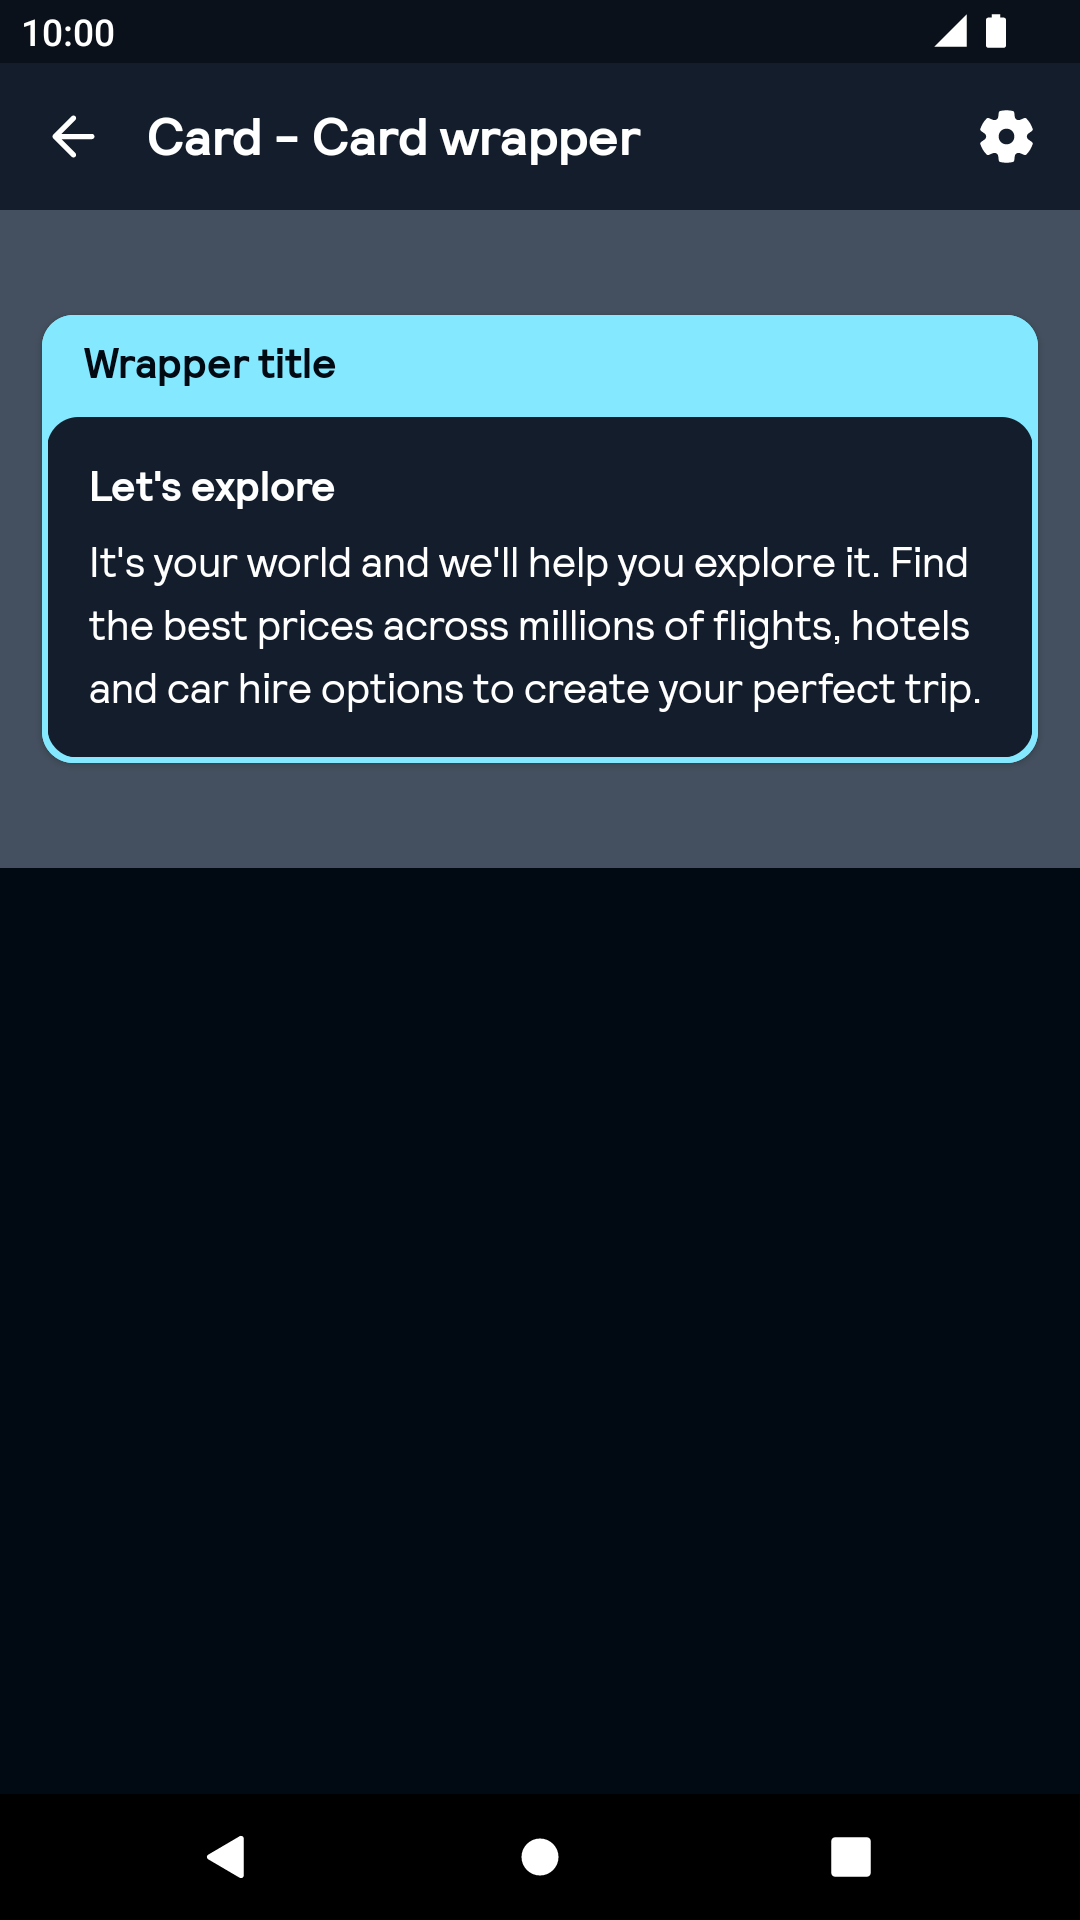
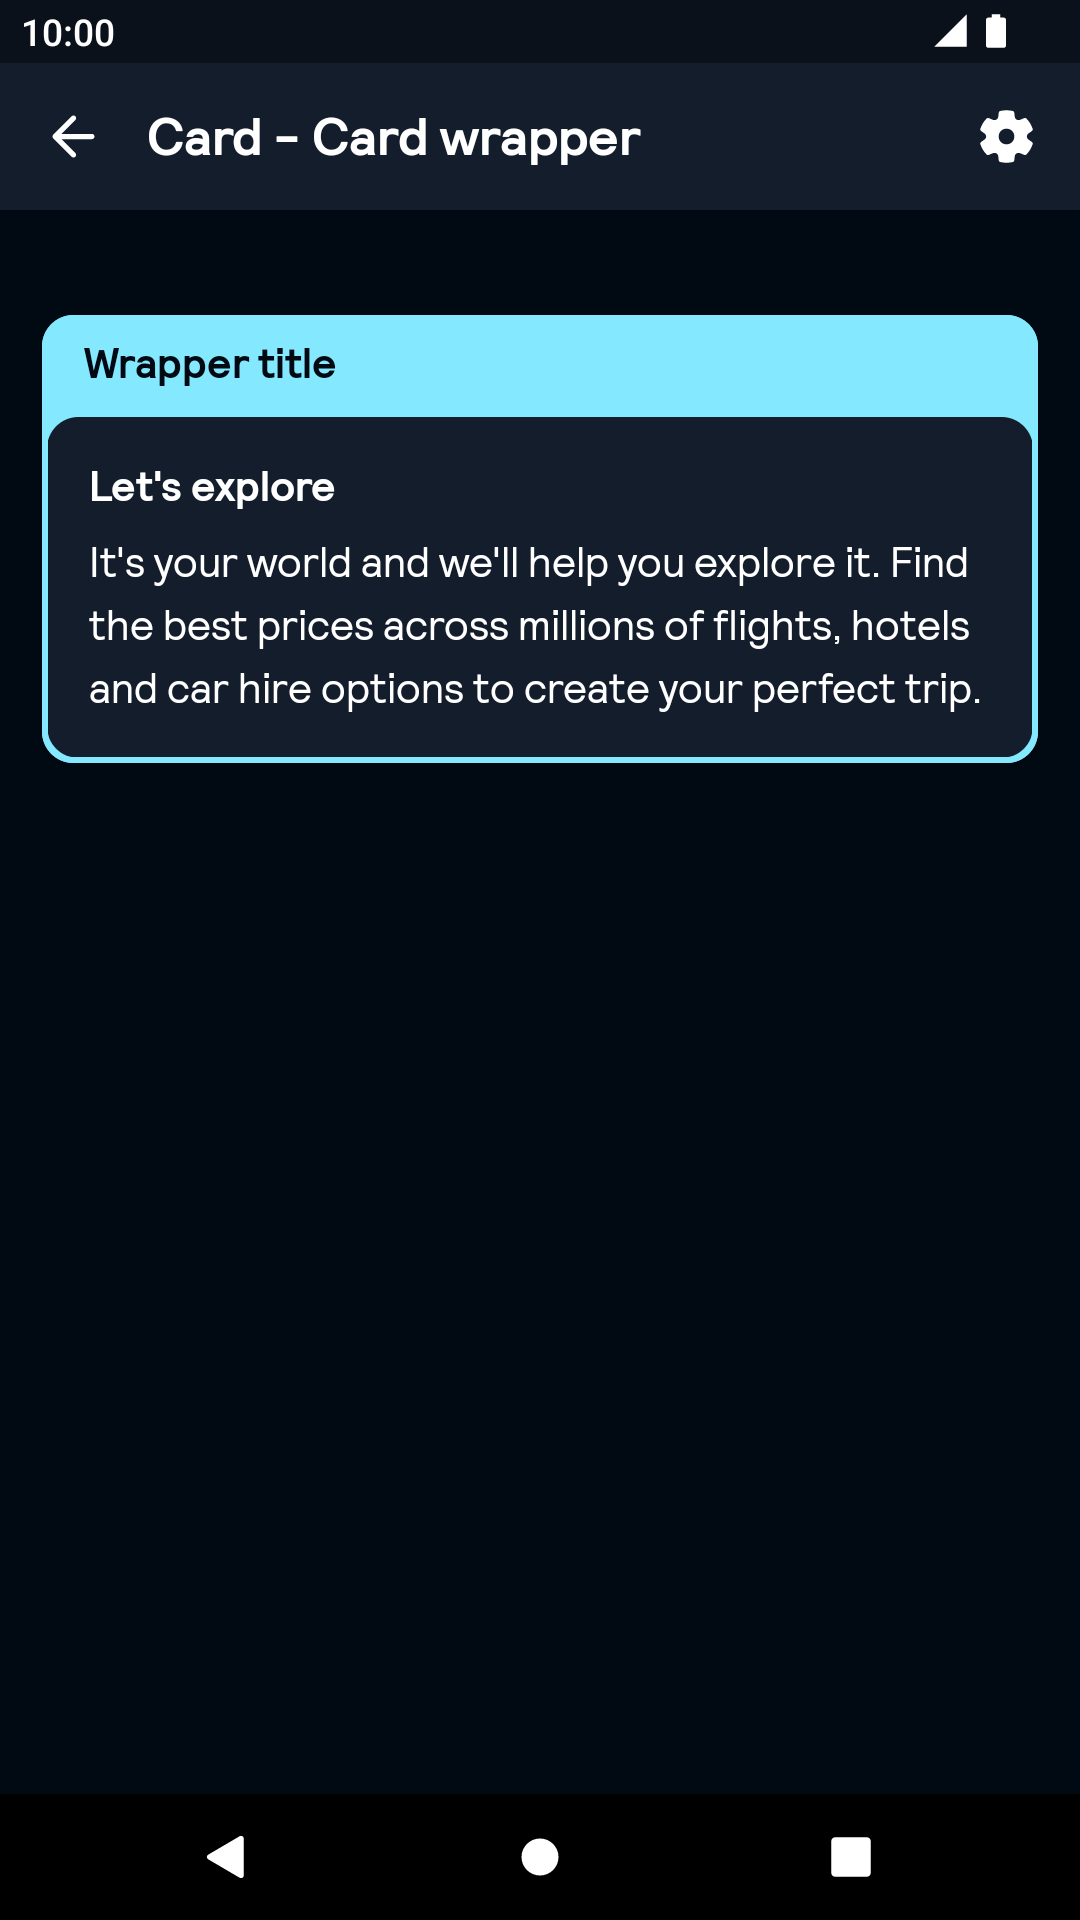
Review PR comments

Changed region(s): [[0.0, 0.0938, 1.0, 0.4688]]

diff --git a/app/src/main/java/net/skyscanner/backpack/demo/compose/CardWrapperStory.kt b/app/src/main/java/net/skyscanner/backpack/demo/compose/CardWrapperStory.kt
@@ -18,7 +18,6 @@
 
 package net.skyscanner.backpack.demo.compose
 
-import androidx.compose.foundation.background
 import androidx.compose.foundation.layout.Arrangement
 import androidx.compose.foundation.layout.Column
 import androidx.compose.foundation.layout.fillMaxWidth
@@ -40,7 +39,6 @@ import net.skyscanner.backpack.demo.meta.ComposeStory
 fun CardWrapperStory(modifier: Modifier = Modifier) {
     Column(
         modifier = modifier
-            .background(BpkTheme.colors.line)
             .padding(horizontal = BpkSpacing.Base, vertical = BpkSpacing.Xxl),
         verticalArrangement = Arrangement.spacedBy(BpkSpacing.Base),
     ) {
